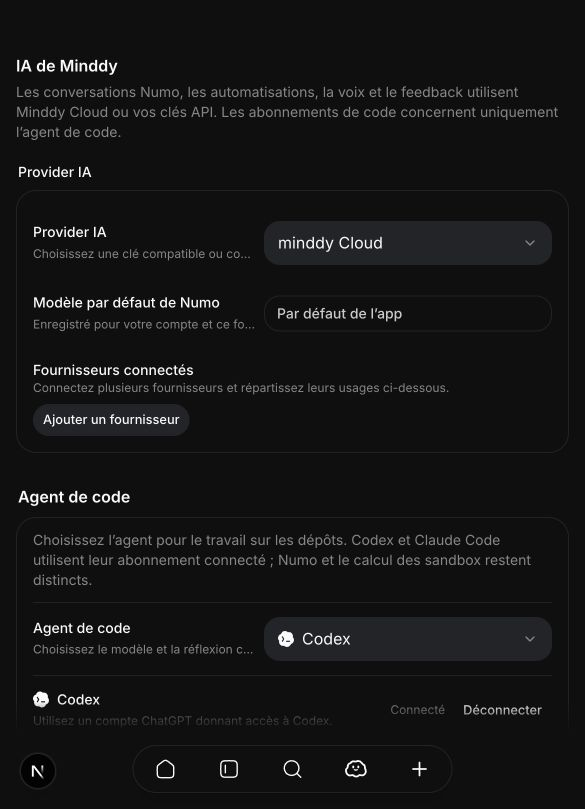
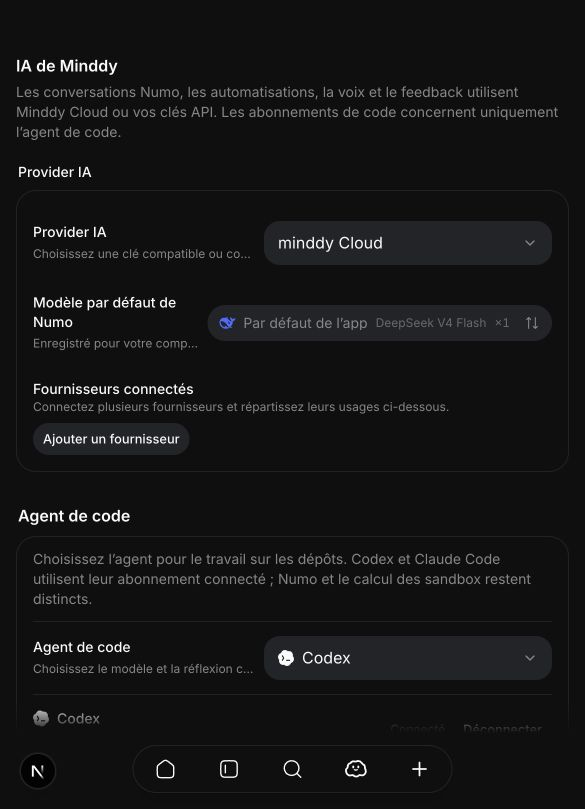
fix: use the standard Numo model selection field

diff --git a/components/settings/account-ai-keys-section.tsx b/components/settings/account-ai-keys-section.tsx
@@ -18,7 +18,6 @@ import {
   SettingsGroup,
   SettingsRow,
 } from "@/components/settings/settings-ui";
-import { formatModelName } from "@/lib/model-display";
 import { ProviderLogo } from "@/components/model-logo";
 import { numoPreferencesQueryKey, saveNumoPreferencesApi, useNumoPreferencesQuery } from "@/lib/use-numo-preferences-query";
 import { SETTINGS_SECTIONS } from "@/lib/settings-sections";
@@ -207,10 +206,7 @@ export function NumoModelPreference() {
       defaultLabel={t("numoApplicationDefault")} defaultModelId={preferences.data?.application_model}
       placeholder={ta("modelSearchPlaceholder")} emptyLabel={ta("modelSearchEmpty")}
       loadingLabel={ta("modelSearchLoading")} freeTextLabel={(model) => ta("modelUseCustom", { model })}
-      variant="compact" ariaLabel={t("numoDefaultModel")}
-      triggerContent={<span className="truncate">{preferences.data?.default_model
-        ? formatModelName(preferences.data.default_model) : t("numoApplicationDefault")}</span>}
-      triggerClassName="h-9 w-72 max-w-full justify-between rounded-lg border border-border bg-card px-3 text-sm" />}>
+      ariaLabel={t("numoDefaultModel")} />}>
     {preferences.error && <p role="alert" className="py-2 text-sm text-destructive">{t("numoModelLoadError")}</p>}
   </SettingsRow>;
 }

diff --git a/content/documentation/reviews/min-676-provider-numo-defaults-2026-10-11.md b/content/documentation/reviews/min-676-provider-numo-defaults-2026-10-11.md
@@ -46,3 +46,19 @@ on `supabase_db_minddy-min676-local`; lint, typecheck, encrypted-access/schema,
 public repository, documentation/release mode, knowledge, owned-English and
 whitespace checks. Only migration `20270109200040` was applied for this change,
 on the Docker pilot. No hosted migration or deployment was performed.
+
+## Standard model field follow-up
+
+On 2026-10-11, replaced Numo's custom compact text trigger with the standard
+`ModelCombobox` field used by `admin-models-dashboard.tsx`. The field now shows
+the model logo, resolved application default, multiplier and dropdown affordance.
+The assistant catalog, plan restrictions, accessible label and provider-bound
+persistence are unchanged. The existing seven account-settings behavior tests,
+lint and typecheck passed. The French Docker-backed UI was inspected: the field
+rendered the app default with DeepSeek's logo and model name, its list opened,
+and a Qwen search filtered models. Closed without changing the saved preference
+or starting inference. Refreshed `min-676-provider-numo-settings.png` in the same
+585 × 809 dark viewport. Public procedures and responsive diagrams remain
+accurate; this presentation-only follow-up requires no public-guide revision or
+translation change. No credential, database, native-provider or deployment
+operation was performed.
